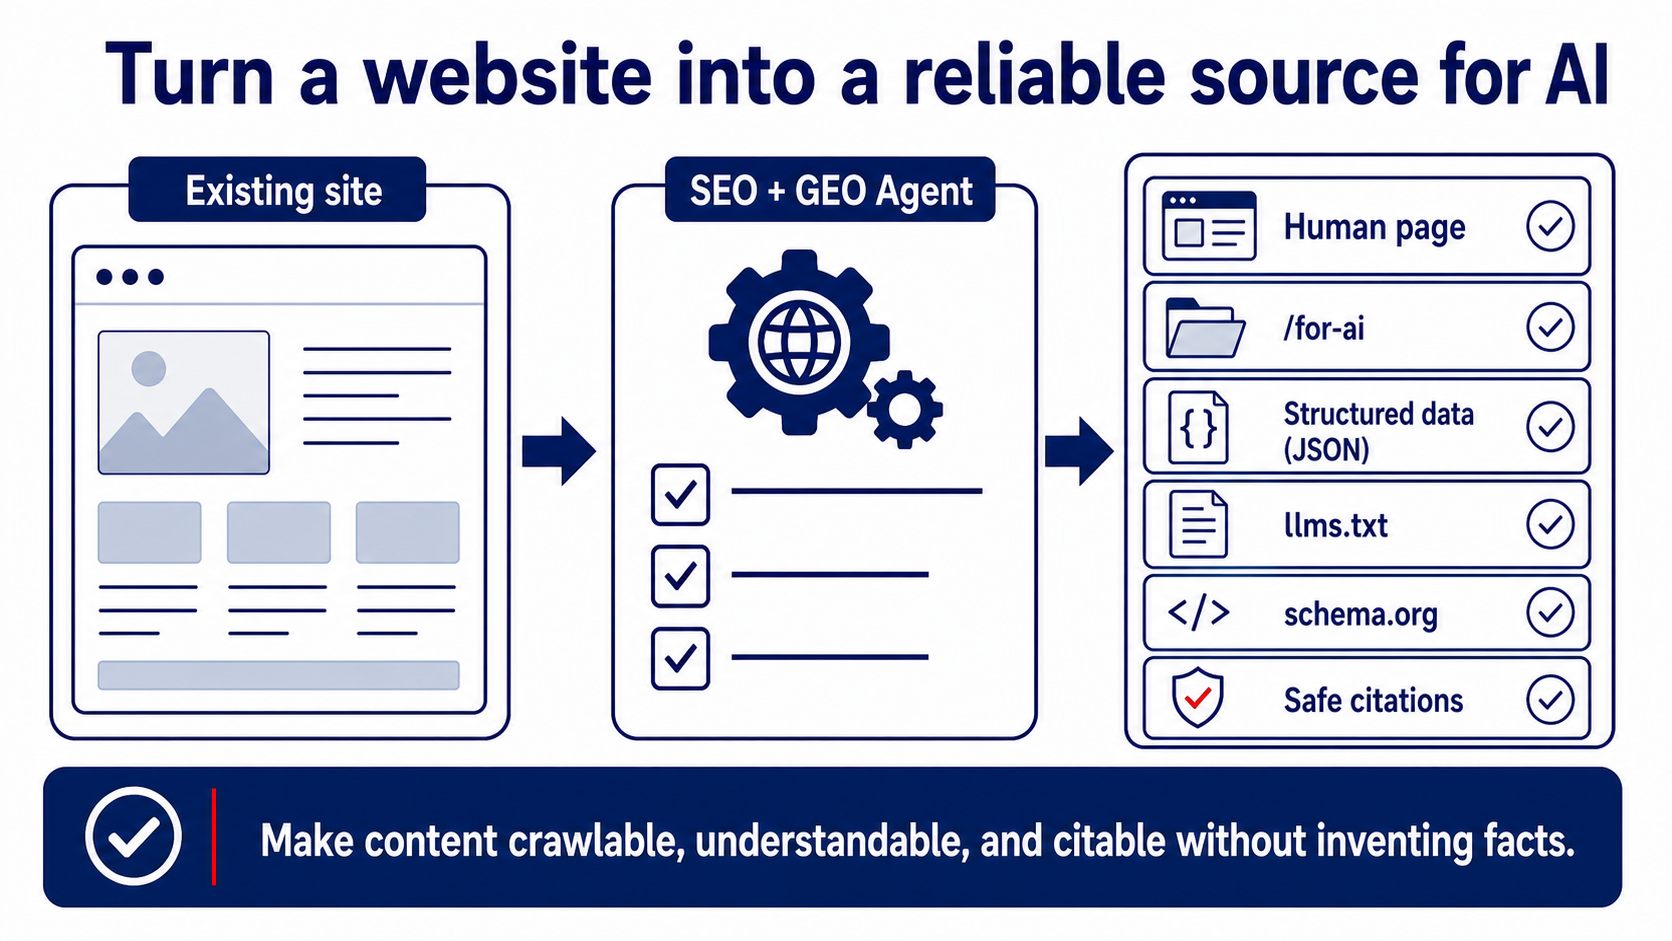
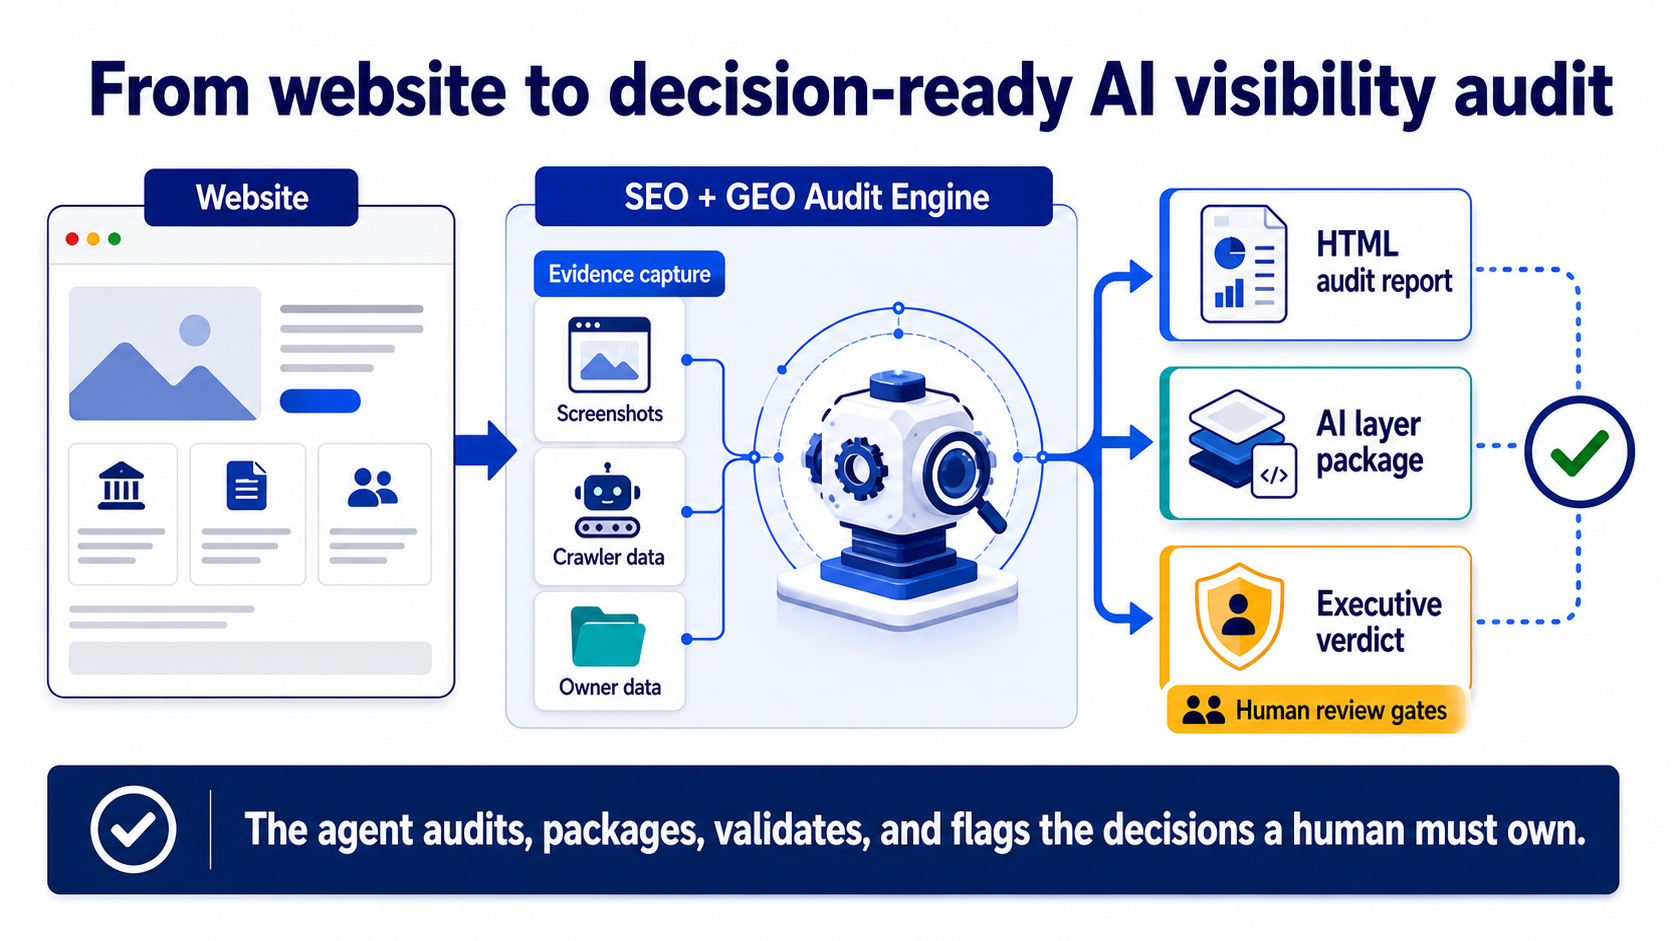
Update README hero image

diff --git a/README.md b/README.md
@@ -1,7 +1,7 @@
 # SEO + GEO Growth Agent
 
 <p align="center">
-  <img src="assets/hero.png" alt="SEO + GEO Growth Agent turns a website into crawlable, understandable, citable AI-ready content" width="820">
+  <img src="assets/hero.png" alt="From website to decision-ready AI visibility audit: the agent audits, packages, validates, and flags human review gates" width="820">
 </p>
 
 Make your AI agent turn any website or institutional page into content that search engines can crawl, AI systems can understand, and assistants can cite without inventing facts.